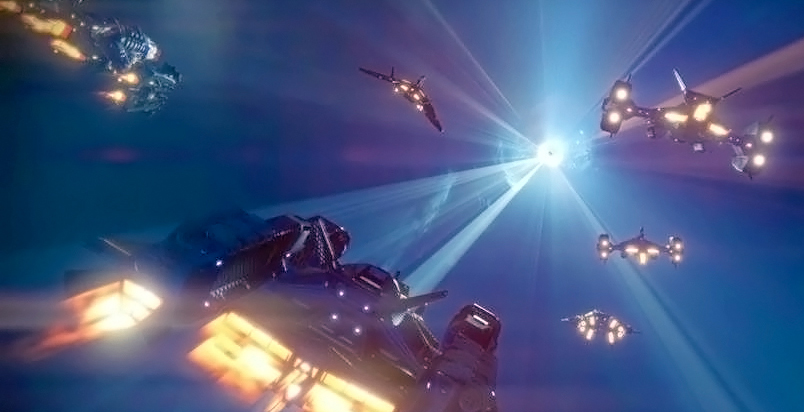
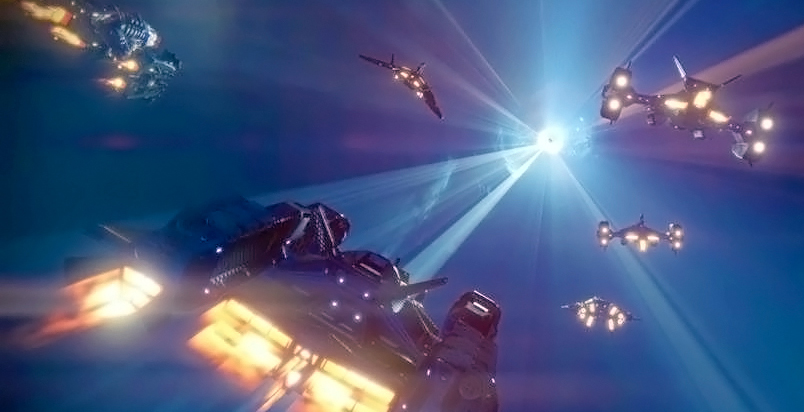
changes made to nav

diff --git a/index.html b/index.html
@@ -73,9 +73,9 @@ Join us on TeamSpeak - 209.239.114.150:11697 or 2982520.ts3.mpgs.co
       <span class="icon-bar"></span>
       <span class="icon-bar"></span>
     </button>
-    <div class="navbar-header">
+    <!--<div class="navbar-header">
       <span class="navbar-brand" style="color: #fff !important; cursor: default;">CC764</span>
-    </div>
+    </div>-->
     <div class="collapse navbar-collapse" id="myNavbar">
       <ul class="nav navbar-nav">
         <li class="active">
@@ -110,10 +110,10 @@ Join us on TeamSpeak - 209.239.114.150:11697 or 2982520.ts3.mpgs.co
       CC764 Update
 
     ========== -->
-    <img src="https://i.imgur.com/mZyISIL.jpg" style="width: 100%;">
+    <img src="https://i.imgur.com/xCGSiUX.jpg" style="width: 100%;">
     <div style="border-left: solid 6px #0991cd;padding-left: 4px;background-color: #222;">
       <h3 style="padding:12px 8px;border-left: solid 2px #0991cd;margin:0;">
-        Charlie Company 764 Update<img src="//i.imgur.com/g5kbQLd.png" class="pull-right" style="margin-top: 4px;">
+        CC764 Update<img src="//i.imgur.com/g5kbQLd.png" class="pull-right" style="margin-top: 4px;">
       </h3>
     </div>
     <div style="background-color: #e6e6e6; color: #333; border-left: solid 6px #0991cd; padding-left: 4px;">
